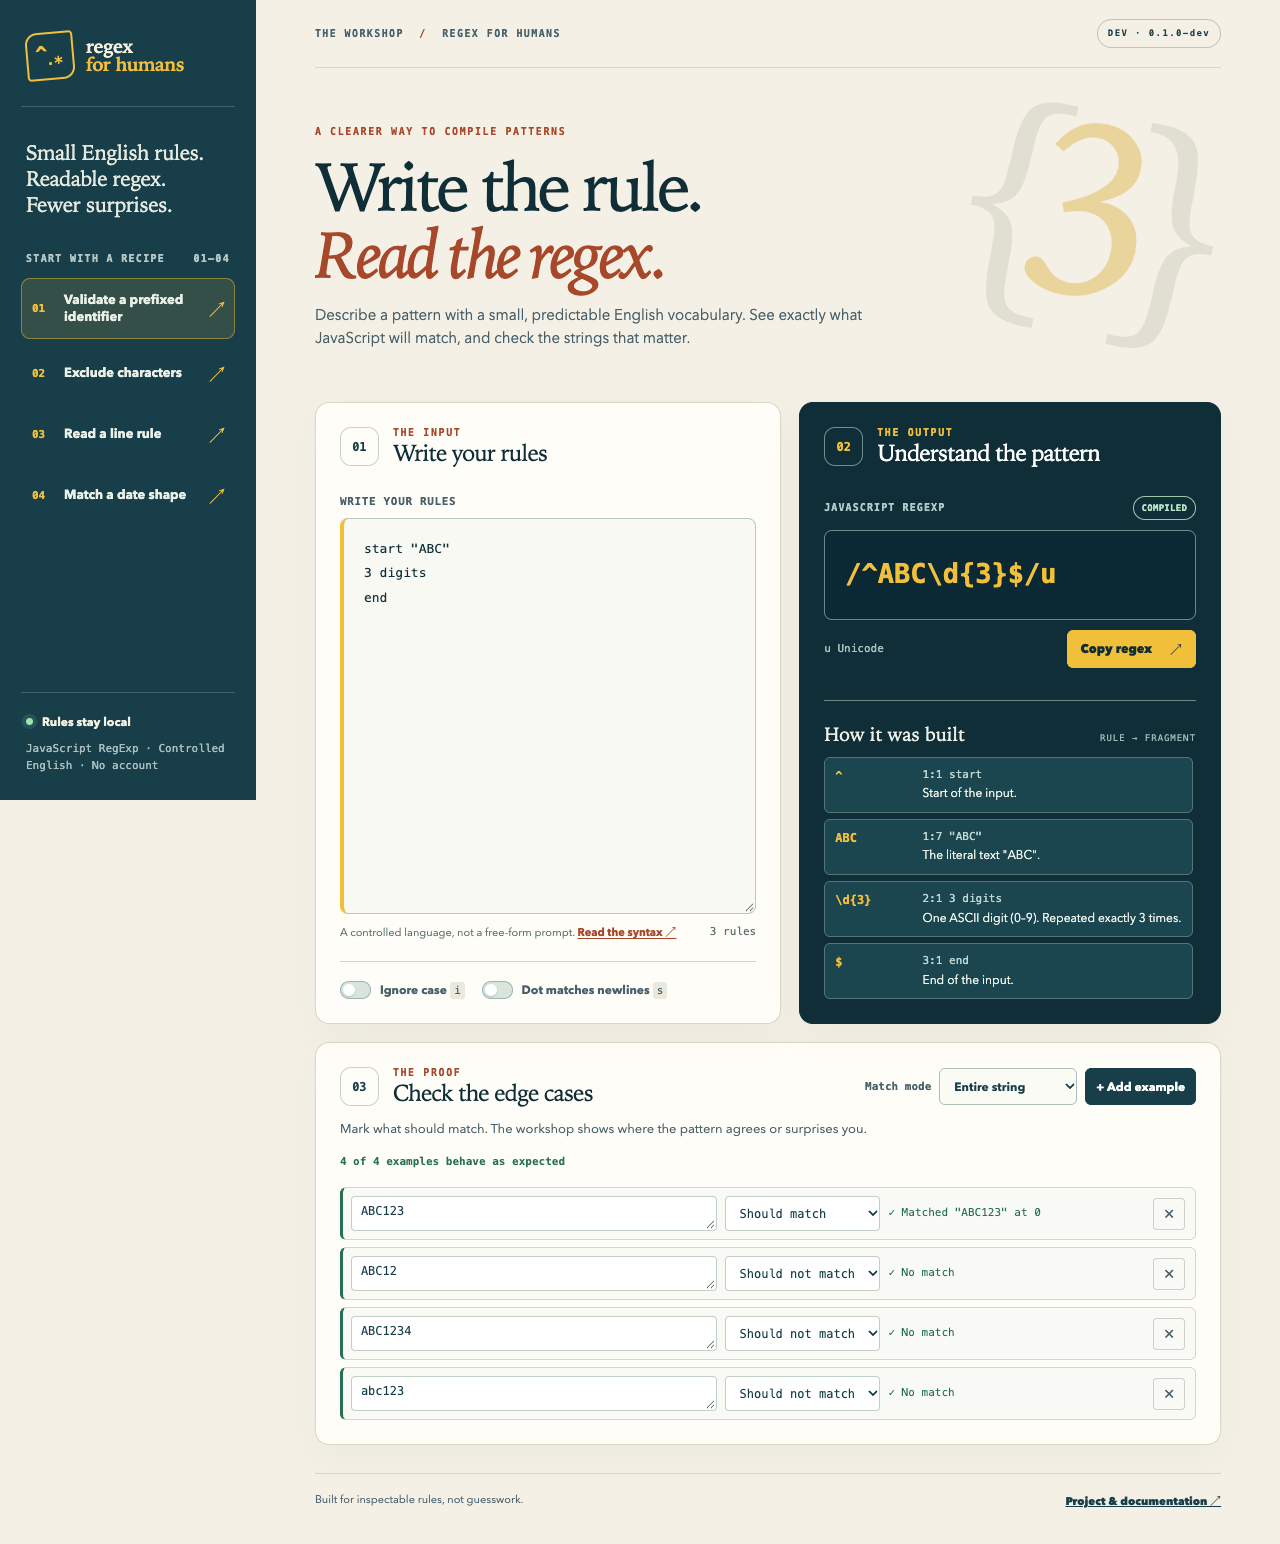
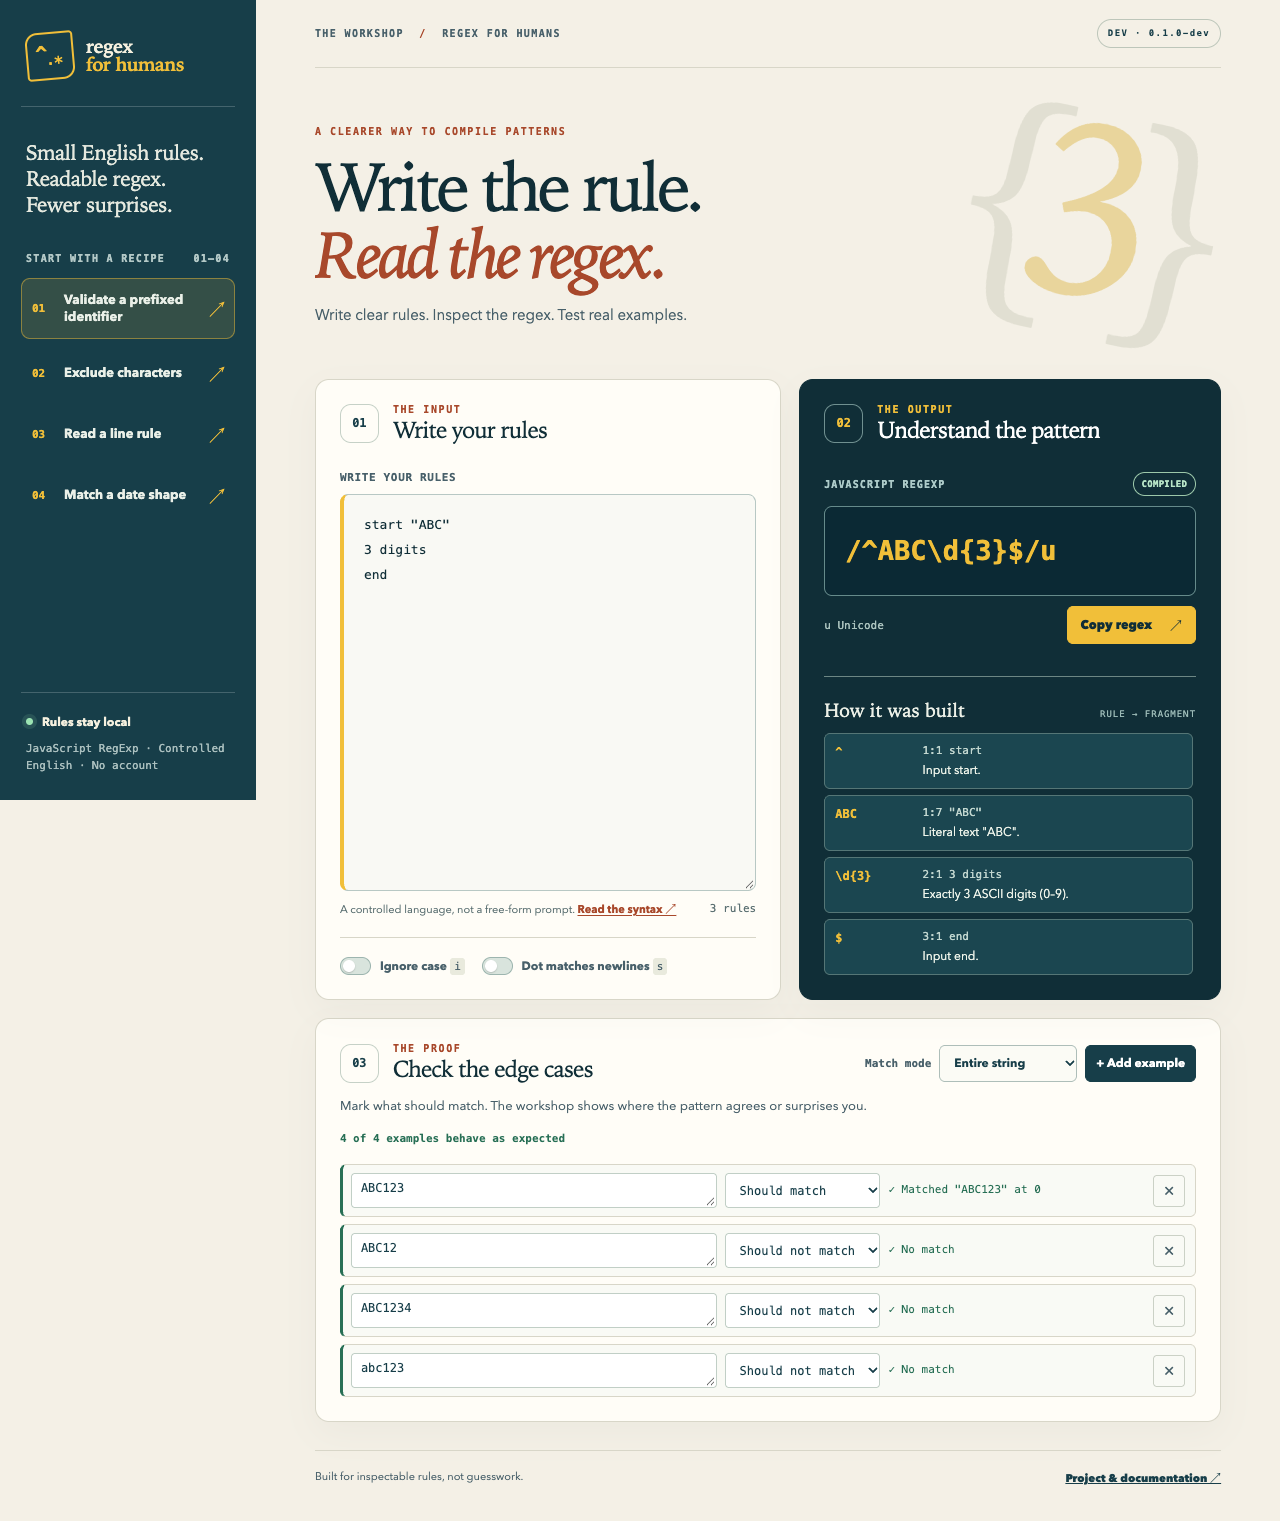
Publish shorter rule explanations

diff --git a/Regex-For-Humans/workshop/index.html b/Regex-For-Humans/workshop/index.html
@@ -7,9 +7,9 @@
   <meta name="description" content="Write clear rules. Inspect the JavaScript regex and test examples locally.">
   <meta http-equiv="Content-Security-Policy" content="default-src 'self'; script-src 'self'; style-src 'self'; img-src 'self' data:; connect-src 'self'; object-src 'none'; base-uri 'self'">
   <title>Regex For Humans — Workshop</title>
-  <link rel="icon" type="image/svg+xml" href="./web/favicon.svg?v=d12efdef53f1">
-  <link rel="stylesheet" href="./web/styles.css?v=d12efdef53f1">
-  <script type="module" src="./web/app.js?v=d12efdef53f1"></script>
+  <link rel="icon" type="image/svg+xml" href="./web/favicon.svg?v=c5584df8342f">
+  <link rel="stylesheet" href="./web/styles.css?v=c5584df8342f">
+  <script type="module" src="./web/app.js?v=c5584df8342f"></script>
 </head>
 <body>
   <a class="skip-link" href="#main">Skip to workshop</a>
@@ -51,7 +51,7 @@
           <div class="panel-heading"><span class="step-number">01</span><div><p class="kicker">THE INPUT</p><h2 id="rules-title">Write your rules</h2></div></div>
           <label for="rules-input" class="field-label">Write your rules</label>
           <textarea id="rules-input" spellcheck="false" autocomplete="off" autocapitalize="off" aria-invalid="false" aria-describedby="rules-help diagnostic" placeholder="start &quot;ABC&quot;&#10;3 digits&#10;end"></textarea>
-          <div class="editor-footer"><p id="rules-help">A controlled language, not a free-form prompt. <a href="./web/language.html?v=d12efdef53f1" target="_blank" rel="noopener noreferrer">Read the syntax ↗</a></p><span id="rule-count">0 rules</span></div>
+          <div class="editor-footer"><p id="rules-help">A controlled language, not a free-form prompt. <a href="./web/language.html?v=c5584df8342f" target="_blank" rel="noopener noreferrer">Read the syntax ↗</a></p><span id="rule-count">0 rules</span></div>
           <fieldset class="flag-controls" aria-label="Regex options">
             <label class="flag-toggle"><input id="ignore-case" type="checkbox"><span class="toggle-track" aria-hidden="true"></span><span>Ignore case <code>i</code></span></label>
             <label class="flag-toggle"><input id="dot-all" type="checkbox"><span class="toggle-track" aria-hidden="true"></span><span>Dot matches newlines <code>s</code></span></label>

diff --git a/Regex-For-Humans/workshop/web/index.html b/Regex-For-Humans/workshop/web/index.html
@@ -7,9 +7,9 @@
   <meta name="description" content="Write clear rules. Inspect the JavaScript regex and test examples locally.">
   <meta http-equiv="Content-Security-Policy" content="default-src 'self'; script-src 'self'; style-src 'self'; img-src 'self' data:; connect-src 'self'; object-src 'none'; base-uri 'self'">
   <title>Regex For Humans — Workshop</title>
-  <link rel="icon" type="image/svg+xml" href="./favicon.svg?v=d12efdef53f1">
-  <link rel="stylesheet" href="./styles.css?v=d12efdef53f1">
-  <script type="module" src="./app.js?v=d12efdef53f1"></script>
+  <link rel="icon" type="image/svg+xml" href="./favicon.svg?v=c5584df8342f">
+  <link rel="stylesheet" href="./styles.css?v=c5584df8342f">
+  <script type="module" src="./app.js?v=c5584df8342f"></script>
 </head>
 <body>
   <a class="skip-link" href="#main">Skip to workshop</a>
@@ -51,7 +51,7 @@
           <div class="panel-heading"><span class="step-number">01</span><div><p class="kicker">THE INPUT</p><h2 id="rules-title">Write your rules</h2></div></div>
           <label for="rules-input" class="field-label">Write your rules</label>
           <textarea id="rules-input" spellcheck="false" autocomplete="off" autocapitalize="off" aria-invalid="false" aria-describedby="rules-help diagnostic" placeholder="start &quot;ABC&quot;&#10;3 digits&#10;end"></textarea>
-          <div class="editor-footer"><p id="rules-help">A controlled language, not a free-form prompt. <a href="./language.html?v=d12efdef53f1" target="_blank" rel="noopener noreferrer">Read the syntax ↗</a></p><span id="rule-count">0 rules</span></div>
+          <div class="editor-footer"><p id="rules-help">A controlled language, not a free-form prompt. <a href="./language.html?v=c5584df8342f" target="_blank" rel="noopener noreferrer">Read the syntax ↗</a></p><span id="rule-count">0 rules</span></div>
           <fieldset class="flag-controls" aria-label="Regex options">
             <label class="flag-toggle"><input id="ignore-case" type="checkbox"><span class="toggle-track" aria-hidden="true"></span><span>Ignore case <code>i</code></span></label>
             <label class="flag-toggle"><input id="dot-all" type="checkbox"><span class="toggle-track" aria-hidden="true"></span><span>Dot matches newlines <code>s</code></span></label>

diff --git a/Regex-For-Humans/workshop/src/explain.js b/Regex-For-Humans/workshop/src/explain.js
@@ -1,15 +1,15 @@
-/** @param {import('./ast.js?v=d12efdef53f1').Repetition|null} repetition */
+/** @param {import('./ast.js?v=c5584df8342f').Repetition|null} repetition */
 function repetitionText(repetition) {
   if (!repetition) return "";
   switch (repetition.kind) {
     case "exact":
       return ` Exactly ${repetition.min} times.`;
     default:
-      throw new TypeError(`Unknown repetition kind: ${repetition.kind}`);
+      throw new TypeError("Unexpected repetition kind.");
   }
 }
 
-/** @param {import('./ast.js?v=d12efdef53f1').RuleNode} node @param {string} flags @param {boolean} [hasFollowingRule] */
+/** @param {import('./ast.js?v=c5584df8342f').RuleNode} node @param {string} flags @param {boolean} [hasFollowingRule] */
 export function explainNode(node, flags, hasFollowingRule = false) {
   if (node.kind === "anchor") {
     if (node.mode === "line") {
@@ -37,8 +37,12 @@ export function explainNode(node, flags, hasFollowingRule = false) {
     }
   }
 
-  if (node.value === "\\d" && node.repetition?.kind === "oneOrMore") {
-    return "One or more ASCII digits (0–9).";
+  if (node.atomType === "shorthand" && node.value === "\\d") {
+    if (node.repetition?.kind === "oneOrMore") return "One or more ASCII digits (0–9).";
+    if (node.repetition?.kind === "exact") {
+      const digits = node.repetition.min === 1 ? "digit" : "digits";
+      return `Exactly ${node.repetition.min} ASCII ${digits} (0–9).`;
+    }
   }
 
   let meaning;

diff --git a/Regex-For-Humans/workshop/web/app.js b/Regex-For-Humans/workshop/web/app.js
@@ -1,5 +1,5 @@
-import { CompileError, compile } from "../index.js?v=d12efdef53f1";
-import { TestRunError, TestRunner } from "./test-runner.js?v=d12efdef53f1";
+import { CompileError, compile } from "../index.js?v=c5584df8342f";
+import { TestRunError, TestRunner } from "./test-runner.js?v=c5584df8342f";
 
 /** @typedef {import("./worker-protocol.d.ts").TestCase} TestCase */
 /** @typedef {{id: string, title: string, rules: string, source: string, flags: string, matchMode: "full" | "search", positive: string[], negative: string[]}} ProductScenario */
@@ -45,7 +45,7 @@ let nextTestId = 1;
 /** @type {ReturnType<typeof compile> | null} */
 let compiled = null;
 const testRunner = new TestRunner(
-  () => new Worker(new URL("./match-worker.js?v=d12efdef53f1", import.meta.url), { type: "module" }),
+  () => new Worker(new URL("./match-worker.js?v=c5584df8342f", import.meta.url), { type: "module" }),
 );
 
 /**
@@ -370,7 +370,7 @@ ui.copy.addEventListener("click", async () => {
 });
 
 try {
-  const response = await fetch(new URL("../test/fixtures/product-scenarios.json?v=d12efdef53f1", import.meta.url));
+  const response = await fetch(new URL("../test/fixtures/product-scenarios.json?v=c5584df8342f", import.meta.url));
   if (!response.ok) throw new Error(`HTTP ${response.status}`);
   scenarios = await response.json();
   renderScenarioButtons();

diff --git a/Regex-For-Humans/workshop/src/parser.js b/Regex-For-Humans/workshop/src/parser.js
@@ -1,11 +1,11 @@
-import { anchor, atom } from "./ast.js?v=d12efdef53f1";
-import { fail } from "./diagnostics.js?v=d12efdef53f1";
+import { anchor, atom } from "./ast.js?v=c5584df8342f";
+import { fail } from "./diagnostics.js?v=c5584df8342f";
 
-/** @typedef {import('./ast.js?v=d12efdef53f1').Location} Location */
-/** @typedef {import('./ast.js?v=d12efdef53f1').Repetition} Repetition */
-/** @typedef {import('./ast.js?v=d12efdef53f1').AtomNode} AtomNode */
-/** @typedef {import('./ast.js?v=d12efdef53f1').RuleNode} RuleNode */
-/** @typedef {import('./ast.js?v=d12efdef53f1').ParsedRules} ParsedRules */
+/** @typedef {import('./ast.js?v=c5584df8342f').Location} Location */
+/** @typedef {import('./ast.js?v=c5584df8342f').Repetition} Repetition */
+/** @typedef {import('./ast.js?v=c5584df8342f').AtomNode} AtomNode */
+/** @typedef {import('./ast.js?v=c5584df8342f').RuleNode} RuleNode */
+/** @typedef {import('./ast.js?v=c5584df8342f').ParsedRules} ParsedRules */
 
 const MAX_SOURCE_LENGTH = 16_384;
 export const LIMITS = Object.freeze({

diff --git a/Regex-For-Humans/workshop/src/compiler.js b/Regex-For-Humans/workshop/src/compiler.js
@@ -1,9 +1,9 @@
-import { fail } from "./diagnostics.js?v=d12efdef53f1";
-import { explainNode } from "./explain.js?v=d12efdef53f1";
+import { fail } from "./diagnostics.js?v=c5584df8342f";
+import { explainNode } from "./explain.js?v=c5584df8342f";
 
-/** @typedef {import('./ast.js?v=d12efdef53f1').AtomNode} AtomNode */
-/** @typedef {import('./ast.js?v=d12efdef53f1').Repetition} Repetition */
-/** @typedef {import('./ast.js?v=d12efdef53f1').ParsedRules} ParsedRules */
+/** @typedef {import('./ast.js?v=c5584df8342f').AtomNode} AtomNode */
+/** @typedef {import('./ast.js?v=c5584df8342f').Repetition} Repetition */
+/** @typedef {import('./ast.js?v=c5584df8342f').ParsedRules} ParsedRules */
 
 const locationOfOptions = { line: 1, column: 1 };
 
@@ -39,7 +39,7 @@ function repetitionSource(repetition) {
     case "exact":
       return `{${repetition.min}}`;
     default:
-      throw new TypeError(`Unknown repetition kind: ${repetition.kind}`);
+      throw new TypeError("Unknown repetition kind.");
   }
 }
 

diff --git a/Regex-For-Humans/index.html b/Regex-For-Humans/index.html
@@ -80,7 +80,7 @@ end</code></pre>
         <a class="text-link" href="./workshop/">Open the workshop <span aria-hidden="true">↗</span></a>
       </div>
       <a class="workshop-preview" href="./workshop/" aria-label="Open the interactive Regex For Humans workshop">
-        <img src="./assets/workshop-preview.png?v=725eda2b3387" alt="The workshop compiles start &quot;ABC&quot;, 3 digits, and end to ^ABC\d{3}$. All four examples pass." loading="lazy" width="1280" height="1544">
+        <img src="./assets/workshop-preview.png?v=674814dbda1c" alt="The workshop compiles start &quot;ABC&quot;, 3 digits, and end to ^ABC\d{3}$. All four examples pass." loading="lazy" width="1280" height="1521">
         <span class="preview-tag">LIVE WORKSHOP <b aria-hidden="true">↗</b></span>
       </a>
       <p class="workshop-caption"><span class="online-dot" aria-hidden="true"></span> Rules and examples are compiled and tested in your browser. No account required.</p>

diff --git a/Regex-For-Humans/workshop/web/language.html b/Regex-For-Humans/workshop/web/language.html
@@ -7,9 +7,9 @@
   <meta name="description" content="A quick reference for the controlled-English rules supported by Regex For Humans.">
   <meta http-equiv="Content-Security-Policy" content="default-src 'self'; style-src 'self'; img-src 'self' data:; object-src 'none'; base-uri 'self'">
   <title>Language guide — Regex For Humans</title>
-  <link rel="icon" type="image/svg+xml" href="./favicon.svg?v=d12efdef53f1">
-  <link rel="stylesheet" href="./styles.css?v=d12efdef53f1">
-  <link rel="stylesheet" href="./language.css?v=d12efdef53f1">
+  <link rel="icon" type="image/svg+xml" href="./favicon.svg?v=c5584df8342f">
+  <link rel="stylesheet" href="./styles.css?v=c5584df8342f">
+  <link rel="stylesheet" href="./language.css?v=c5584df8342f">
 </head>
 <body>
   <a class="skip-link" href="#main">Skip to syntax</a>

diff --git a/Regex-For-Humans/workshop/src/ast.js b/Regex-For-Humans/workshop/src/ast.js
@@ -1,6 +1,6 @@
 /**
  * @typedef {{line: number, column: number}} Location
- * @typedef {{kind: 'exact'|'zeroOrMore'|'oneOrMore', min?: number}} Repetition
+ * @typedef {{kind: 'exact', min: number}|{kind: 'zeroOrMore'}|{kind: 'oneOrMore'}} Repetition
  * @typedef {{kind: 'anchor', edge: 'start'|'end', mode: 'input'|'line', location: Location, text: string}} AnchorNode
  * @typedef {{kind: 'atom', atomType: 'wildcard'|'shorthand'|'literal', value: string, negative?: boolean, repetition: Repetition|null, location: Location, text: string}} TextAtomNode
  * @typedef {{kind: 'atom', atomType: 'charSet', value: string[], negative: boolean, repetition: Repetition|null, location: Location, text: string}} SetAtomNode

diff --git a/Regex-For-Humans/workshop/index.js b/Regex-For-Humans/workshop/index.js
@@ -1,5 +1,5 @@
-import { compileAst } from "./src/compiler.js?v=d12efdef53f1";
-import { parse } from "./src/parser.js?v=d12efdef53f1";
+import { compileAst } from "./src/compiler.js?v=c5584df8342f";
+import { parse } from "./src/parser.js?v=c5584df8342f";
 
 /** Compile controlled-English rules into JavaScript regex source, flags and source mapping.
  * @param {string} source @param {{flags?: string}} [options]
@@ -25,4 +25,4 @@ export function toRegExp(result) {
   return new RegExp(result.source, result.flags);
 }
 
-export { CompileError } from "./src/diagnostics.js?v=d12efdef53f1";
+export { CompileError } from "./src/diagnostics.js?v=c5584df8342f";

diff --git a/Regex-For-Humans/workshop/src/diagnostics.js b/Regex-For-Humans/workshop/src/diagnostics.js
@@ -1,4 +1,4 @@
-/** @typedef {import('./ast.js?v=d12efdef53f1').Location} Location */
+/** @typedef {import('./ast.js?v=c5584df8342f').Location} Location */
 
 export class CompileError extends Error {
   /** @param {string} code @param {string} message @param {Location} location @param {string=} hint */

diff --git a/Regex-For-Humans/workshop/web/match-worker.js b/Regex-For-Humans/workshop/web/match-worker.js
@@ -1,4 +1,4 @@
-import { LIMITS } from "../src/parser.js?v=d12efdef53f1";
+import { LIMITS } from "../src/parser.js?v=c5584df8342f";
 
 /** @typedef {import("./worker-protocol.d.ts").TestRequest} TestRequest */
 /** @typedef {import("./worker-protocol.d.ts").WorkerReply} WorkerReply */
